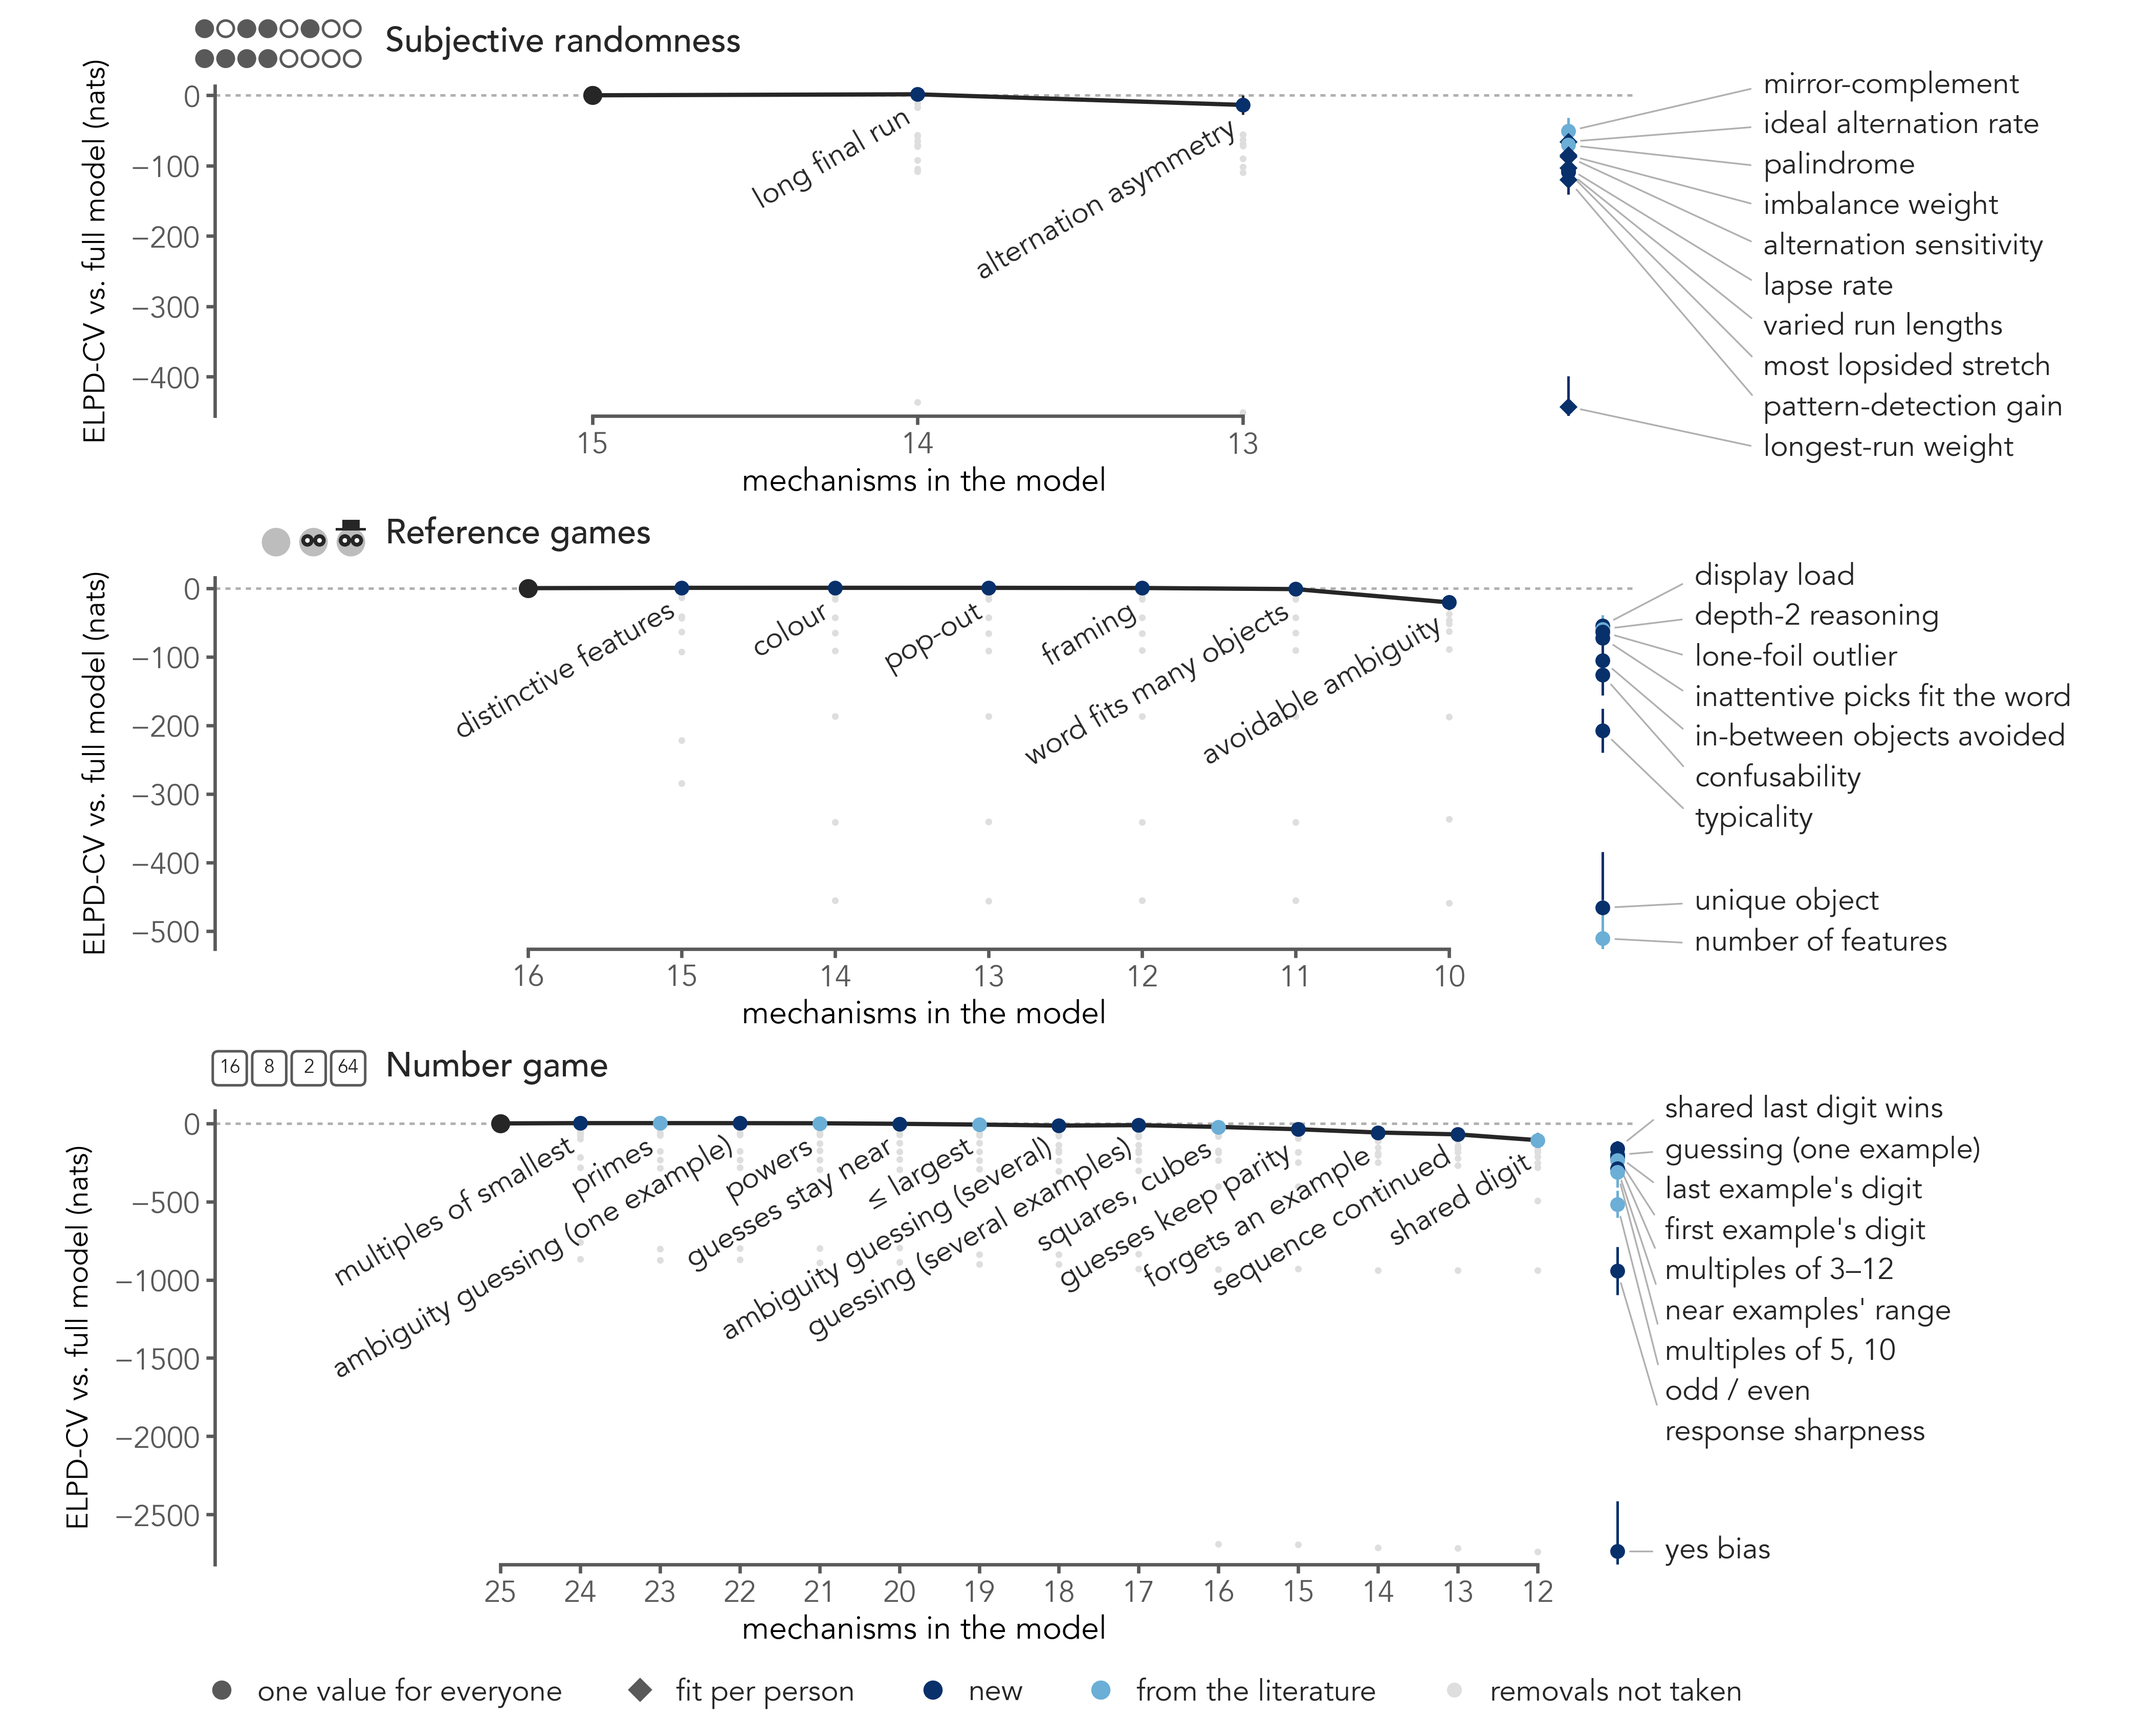
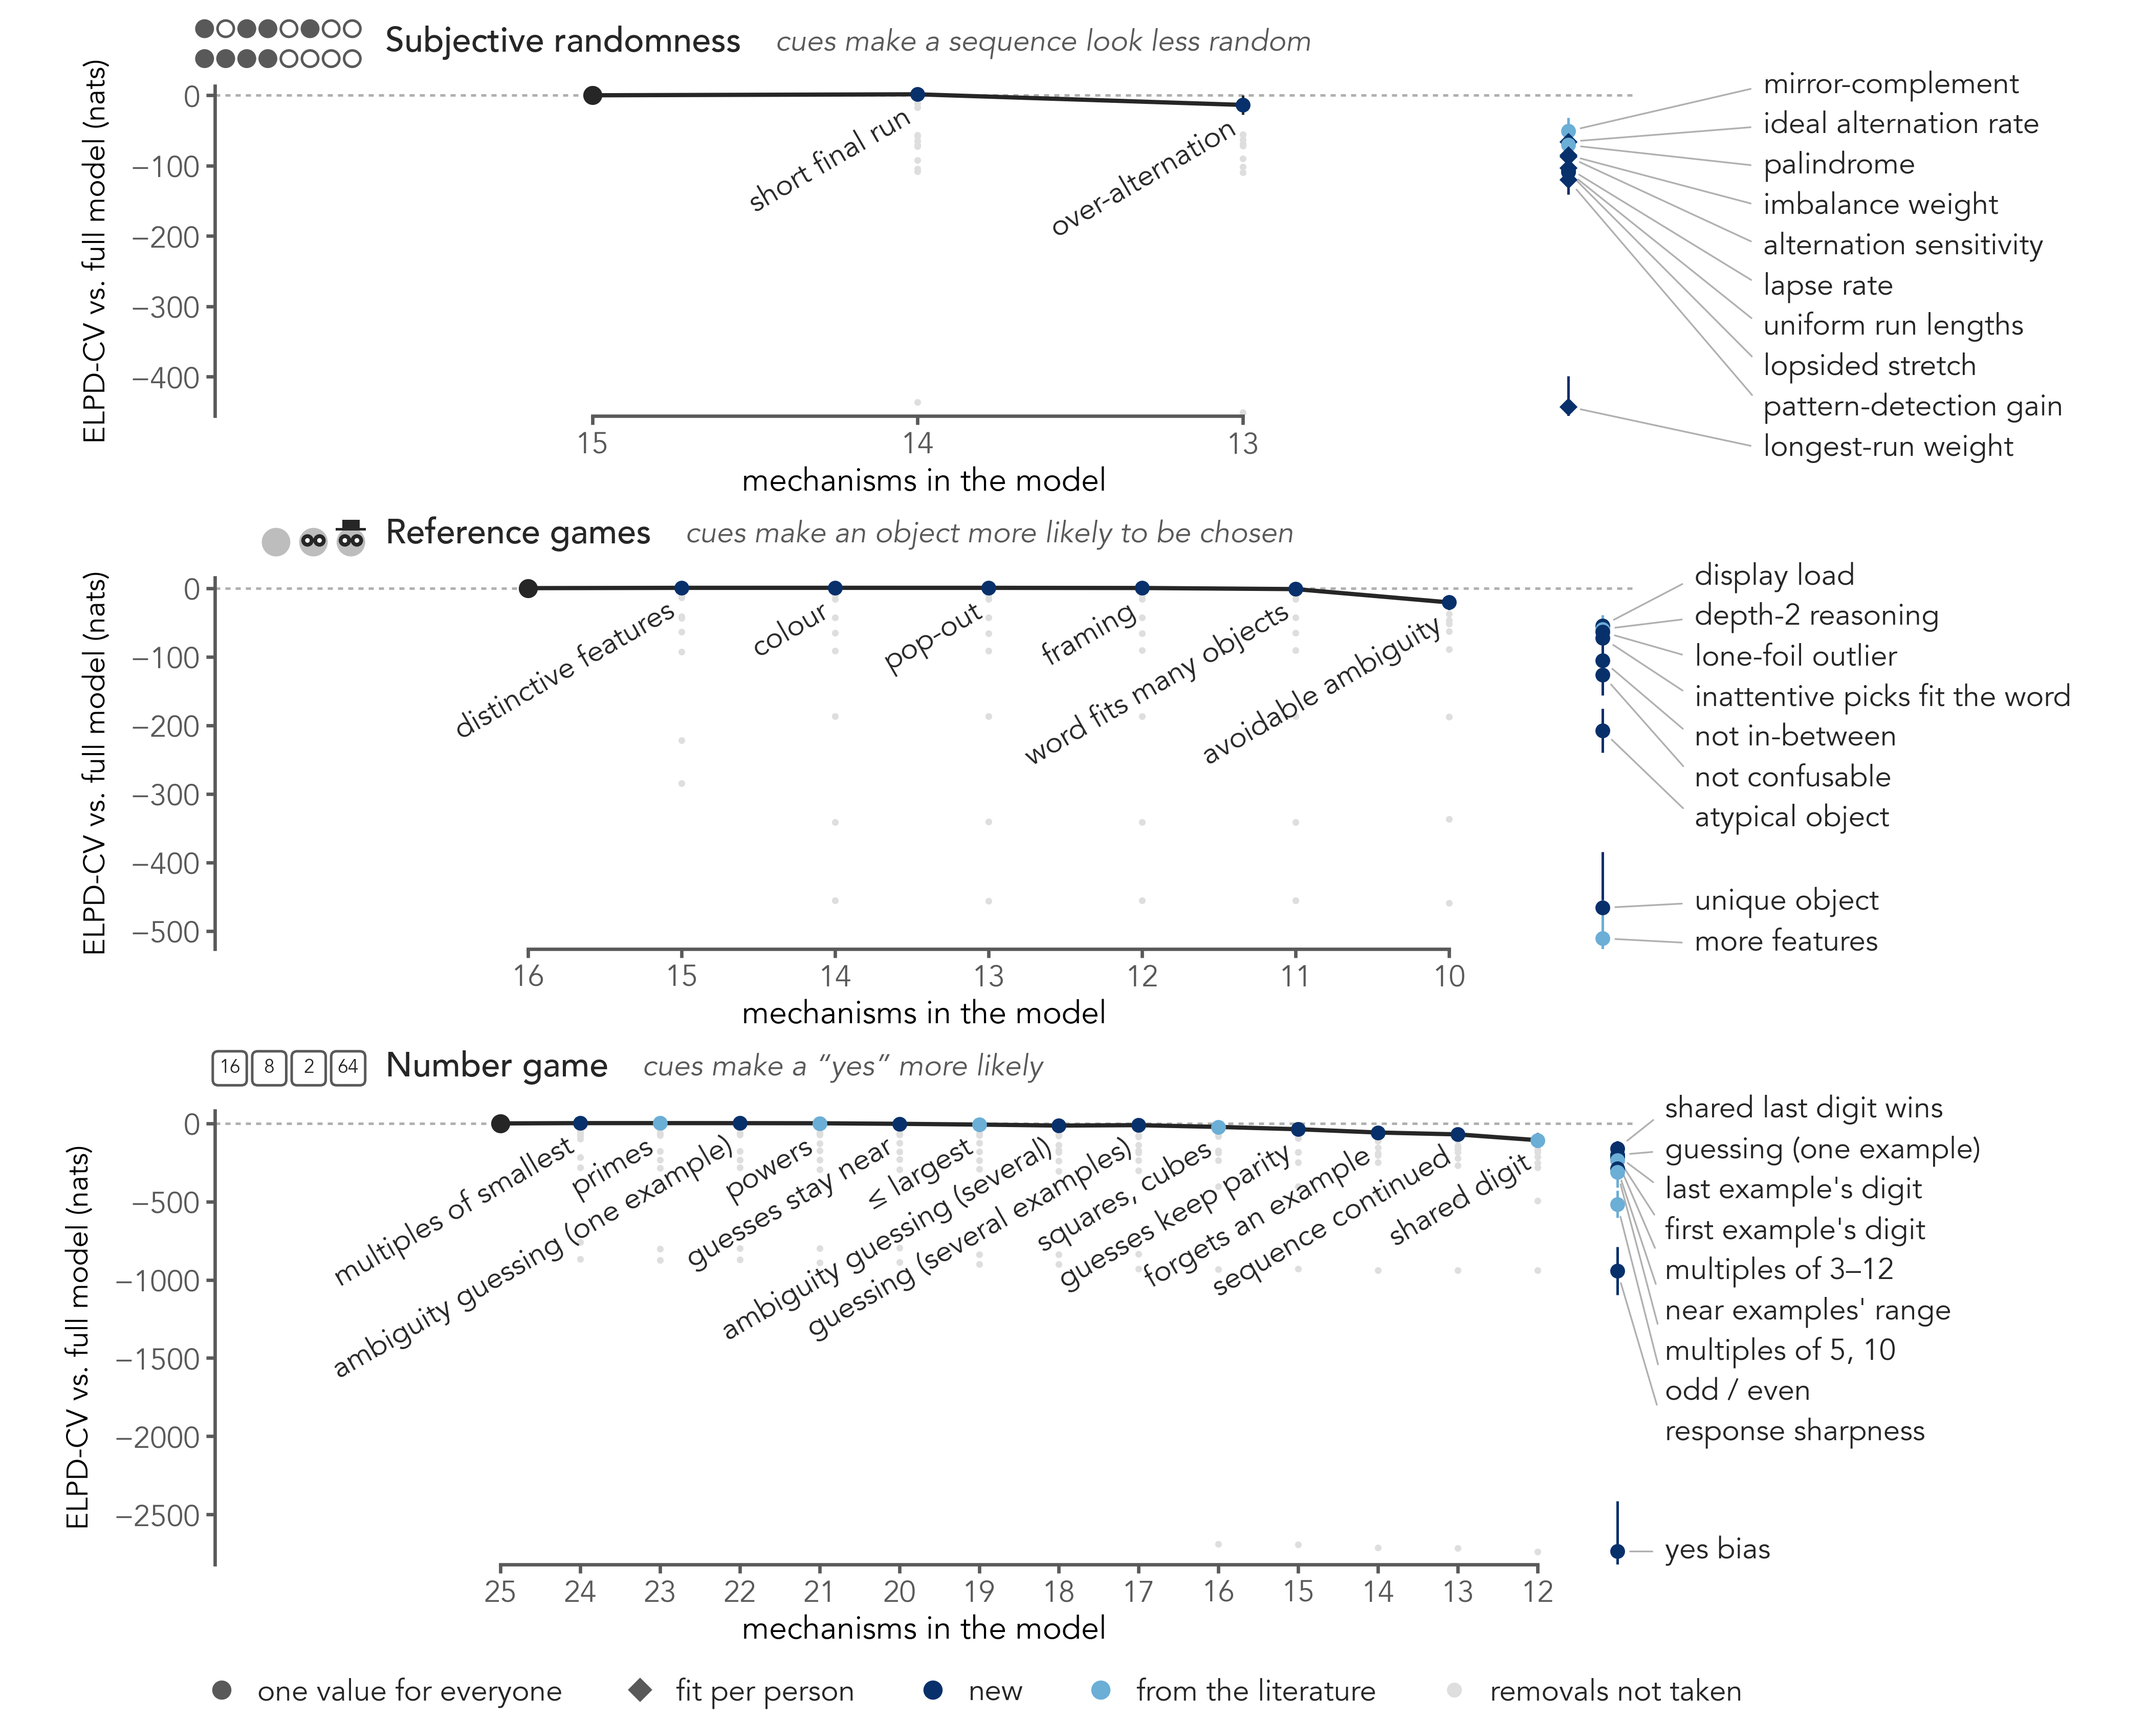
Figure 4 draft: each panel's cues named in one direction (less random / chosen more / more 'yes'), from the fitted signs; the direction beside each title

diff --git a/data/paper/work/fig4_draft/fig4_draft.py b/data/paper/work/fig4_draft/fig4_draft.py
@@ -24,6 +24,10 @@ COLOR_NEW, COLOR_START, PATH = "#08306b", "#6baed6", "#262626"
 NAME_PT, SMALL = 7.0, 7.0  # PNAS: no text under 6 pt at the printed size
 WIDTH_IN, HEIGHT_IN, DPI = 7.0, 5.6, 600  # one row per domain  # the saved figure: PNAS's full width
 GREY = "#dedede"  # the removals not taken
+# each panel's cues are named by what pushes its response this way (the fitted signs: mechanisms.yaml)
+DIRECTION = {"subjective_randomness": "cues make a sequence look less random",
+             "rsa": "cues make an object more likely to be chosen",
+             "number_game": "cues make a \u201cyes\u201d more likely"}
 
 
 def sources():
@@ -124,7 +128,9 @@ def figure(canvas_in, names, src):
     fig.canvas.draw()
     r = fig.canvas.get_renderer()
     for ax, d in zip(axes, TITLES):
-        ax.set_title(TITLES[d], fontdict=TITLE_FONT, pad=8, x=0.12, ha="left")  # the icon goes left of it
+        title = ax.set_title(TITLES[d], fontdict=TITLE_FONT, pad=8, x=0.12, ha="left")  # the icon goes left of it
+        ax.annotate(DIRECTION[d], (1, 0.5), xycoords=title, xytext=(8, 0), textcoords="offset points",
+                    ha="left", va="center", fontsize=NAME_PT, color=INK_2, style="italic")
     dot = {"lw": 0, "ms": 3.5}
     key = [Line2D([], [], marker="o", color=INK_2, label="one value for everyone", **dot),
            Line2D([], [], marker="D", color=INK_2, label="fit per person", **{**dot, "ms": 3}),
